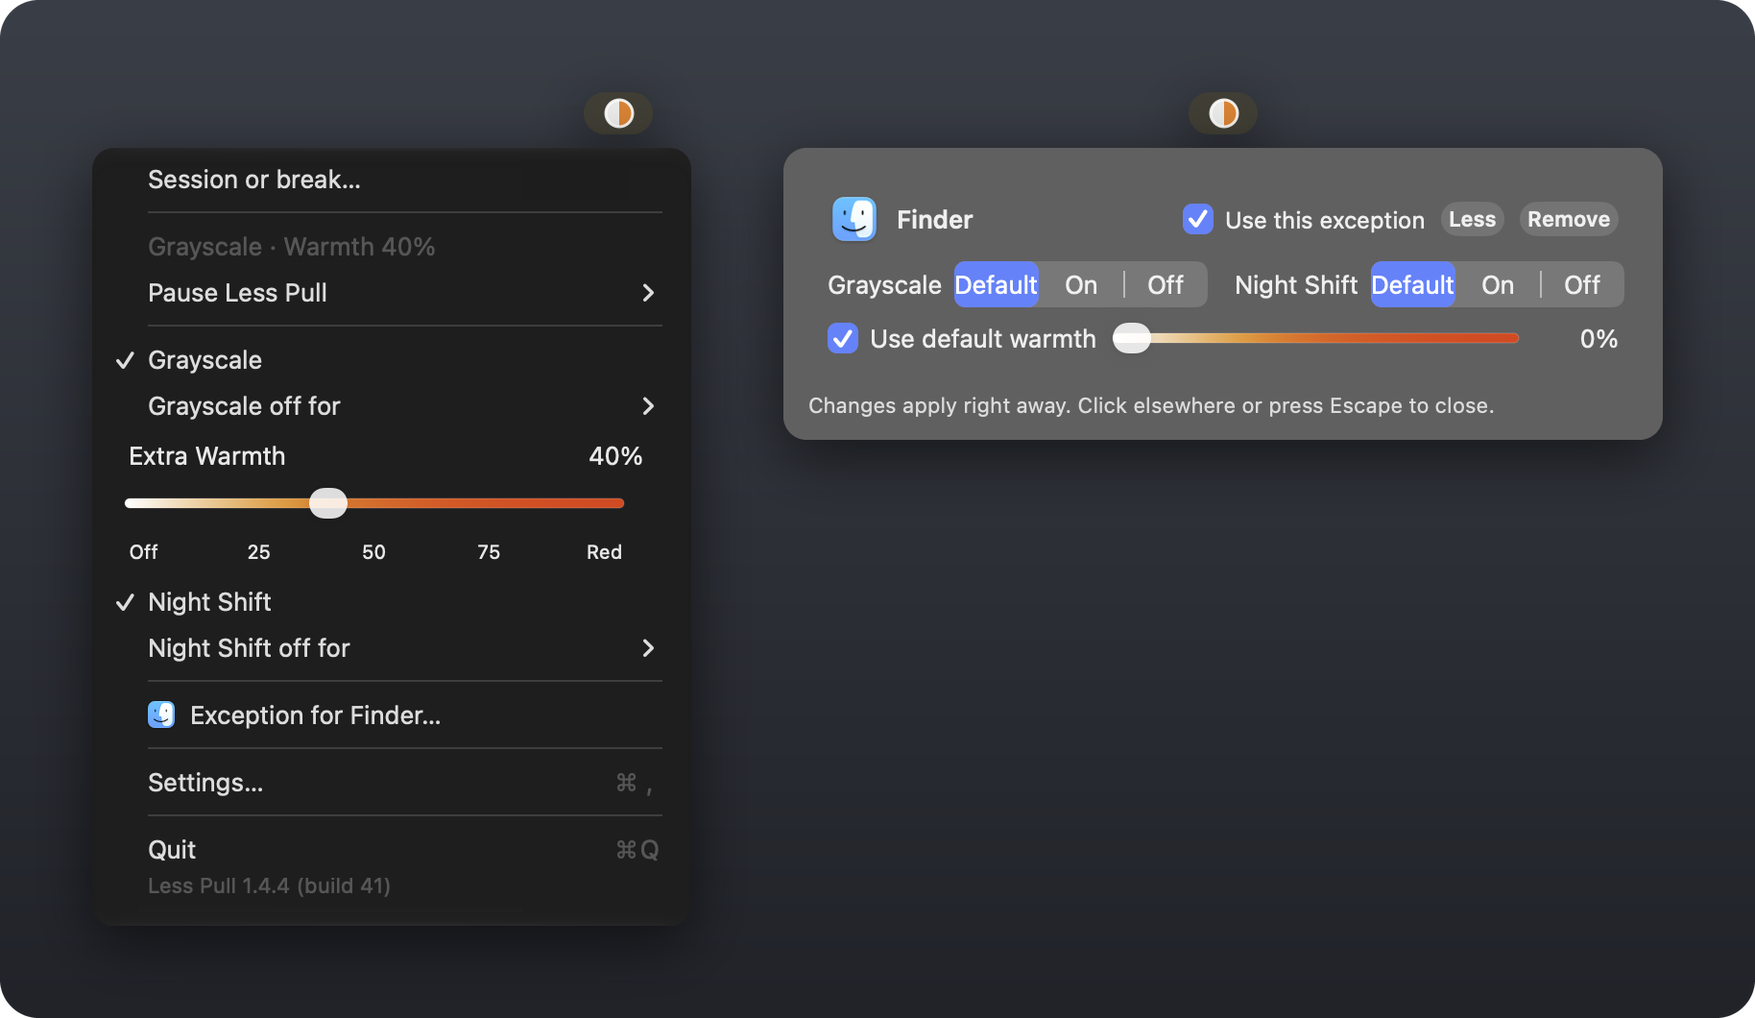
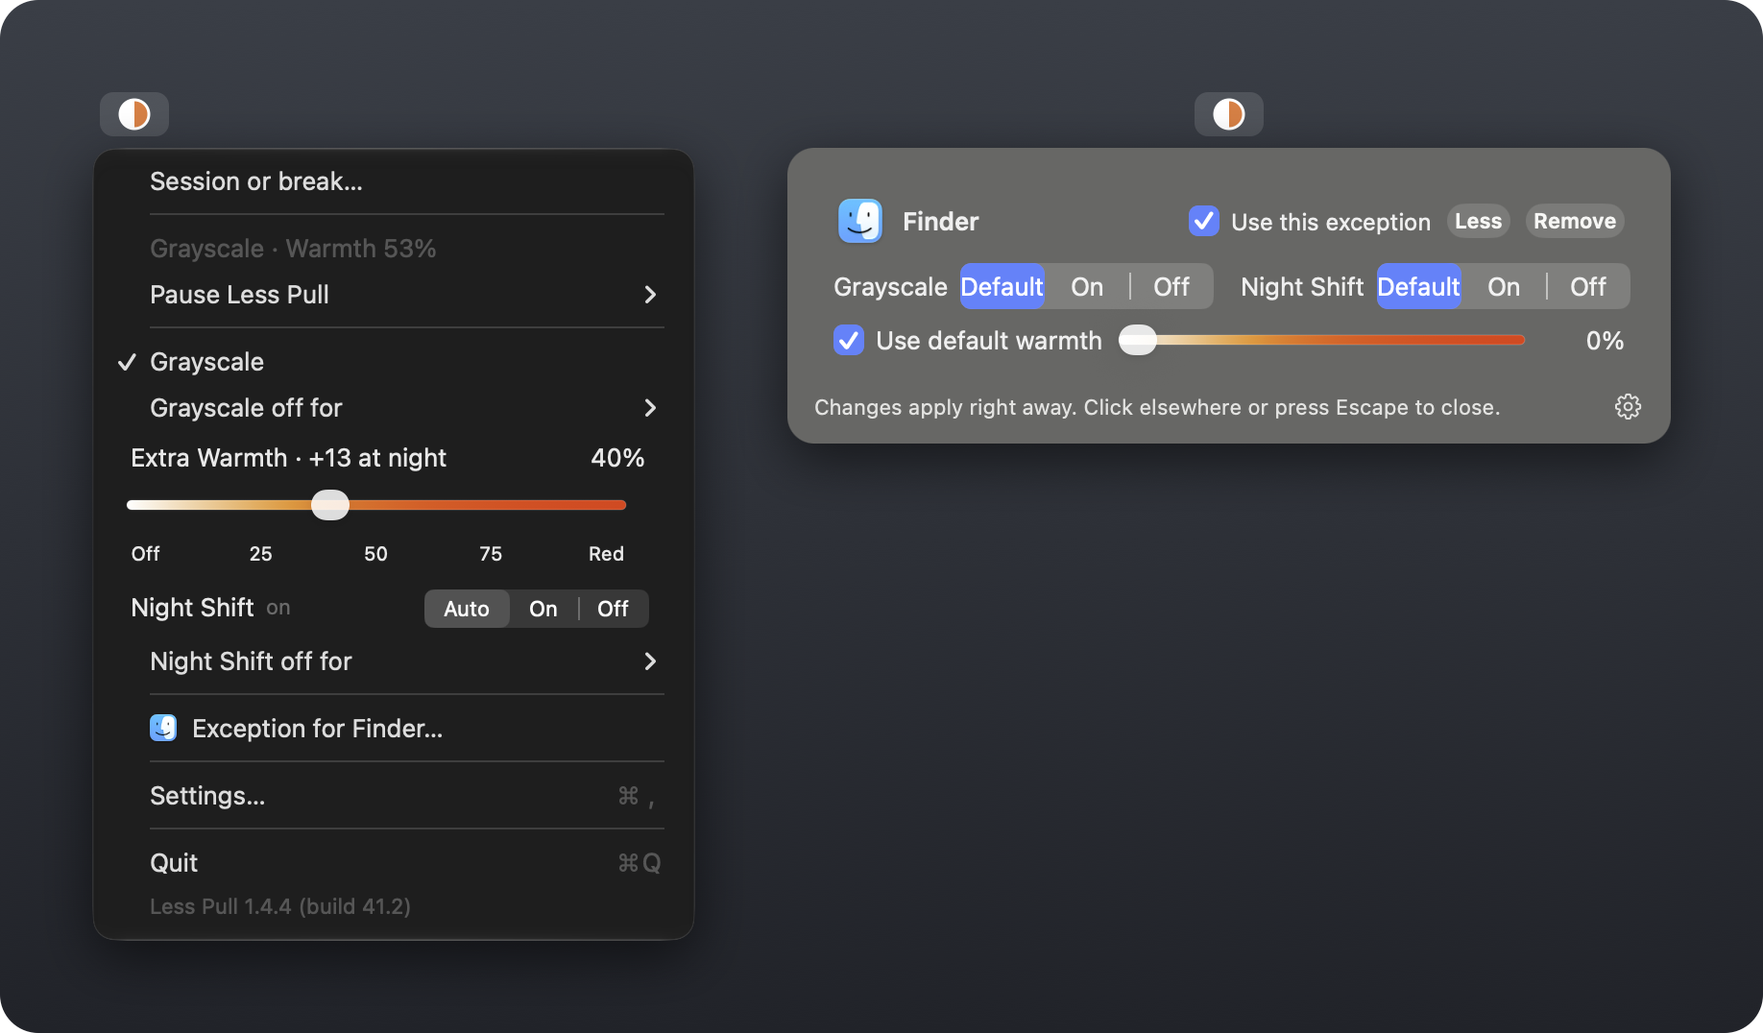
Build 41.2: new screenshots of 41.2, README and docs for the release; screenshot hooks for copies
- The three screenshot figures (the menu and the exception panel, the
  menu beside General, five tabs) are new captures of 41.2 in English
  with example settings: the menu's Night Shift row (Auto | On | Off),
  Extra Warmth with +13 at night, General's Night schedule and Warmer at
  night, About with 41.2. Put together by docs/assets/src/compose-screens.swift
  in the earlier style, colors as captured.
- --screenshot: a copy leaves out "· Test" and shows its shortcuts as the
  installed app has them; "tab:N" opens Settings on a tab.
- README, INSTALL, release plan and history point to 41.2.
- The test action "park" shows a current line (the old Opera line was
  the only text missing a translation).

diff --git a/docs/assets/src/compose-screens.swift b/docs/assets/src/compose-screens.swift
@@ -1,0 +1,36 @@
+import AppKit
+// The README's screenshot figures: real window captures on the plain dark backdrop, soft shadows,
+// and the menu-bar circle drawn above the menu and the panel (as it looks while they are open).
+let dir = CommandLine.arguments[1], out = CommandLine.arguments[2]
+let cs = CGColorSpace(name: CGColorSpace.sRGB)!
+func load(_ n: String) -> CGImage { let i = NSImage(contentsOfFile: "\(dir)/\(n).png")!.cgImage(forProposedRect: nil, context: nil, hints: nil)!; return i.copy(colorSpace: cs) ?? i }  // the captured values as they are (no profile conversion), like the earlier figures
+func compose(_ name: String, _ w: Int, _ h: Int, _ draw: (CGContext) -> Void) {
+  let ctx = CGContext(data: nil, width: w, height: h, bitsPerComponent: 8, bytesPerRow: 0, space: cs, bitmapInfo: CGImageAlphaInfo.premultipliedLast.rawValue)!
+  ctx.saveGState(); ctx.addPath(CGPath(roundedRect: CGRect(x: 0, y: 0, width: w, height: h), cornerWidth: 40, cornerHeight: 40, transform: nil)); ctx.clip()
+  let g = CGGradient(colorsSpace: cs, colors: [CGColor(srgbRed: 58/255, green: 62/255, blue: 70/255, alpha: 1), CGColor(srgbRed: 33/255, green: 35/255, blue: 41/255, alpha: 1)] as CFArray, locations: [0, 1])!
+  ctx.drawLinearGradient(g, start: CGPoint(x: 0, y: h), end: CGPoint(x: 0, y: 0), options: []); draw(ctx); ctx.restoreGState()
+  let rep = NSBitmapImageRep(cgImage: ctx.makeImage()!); try! rep.representation(using: .png, properties: [:])!.write(to: URL(fileURLWithPath: "\(out)/\(name).png")); print(name, w, "x", h)
+}
+func place(_ c: CGContext, _ img: CGImage, x: Int, top: Int, H: Int) {
+  c.saveGState(); c.setShadow(offset: CGSize(width: 0, height: -18), blur: 60, color: CGColor(gray: 0, alpha: 0.55))
+  c.draw(img, in: CGRect(x: x, y: H - top - img.height, width: img.width, height: img.height)); c.restoreGState()
+}
+func circle(_ c: CGContext, cx: Int, top: Int, H: Int) {
+  let w = 72.0, h = 46.0, r = CGRect(x: Double(cx) - w / 2, y: Double(H - top) - h, width: w, height: h)
+  c.setFillColor(CGColor(srgbRed: 1, green: 1, blue: 1, alpha: 0.12)); c.addPath(CGPath(roundedRect: r, cornerWidth: 14, cornerHeight: 14, transform: nil)); c.fillPath()
+  let m = CGPoint(x: r.midX, y: r.midY), R = 15.0
+  c.setFillColor(CGColor(srgbRed: 0.84, green: 0.50, blue: 0.27, alpha: 1)); c.move(to: m); c.addArc(center: m, radius: R, startAngle: -.pi / 2, endAngle: .pi / 2, clockwise: false); c.closePath(); c.fillPath()  // warmth: the right half
+  c.setFillColor(CGColor(gray: 1, alpha: 1)); c.move(to: m); c.addArc(center: m, radius: R, startAngle: .pi / 2, endAngle: 3 * .pi / 2, clockwise: false); c.closePath(); c.fillPath()  // grayscale: the left half
+  c.setStrokeColor(CGColor(gray: 1, alpha: 1)); c.setLineWidth(3); c.addEllipse(in: CGRect(x: m.x - R, y: m.y - R, width: 2 * R, height: 2 * R)); c.strokePath()
+}
+let menu = load("menu"), panel = load("panel"), general = load("general")
+// 1 the menu and the exception panel it opens (the circle where it sits: over the menu's left, centered over the panel)
+do { let W = 96 + menu.width + 96 + panel.width + 96, H = 154 + menu.height + 96, px = 96 + menu.width + 96
+  compose("exceptions", W, H) { c in circle(c, cx: 140, top: 96, H: H); place(c, menu, x: 96, top: 154, H: H); circle(c, cx: px + panel.width / 2, top: 96, H: H); place(c, panel, x: px, top: 154, H: H) } }
+// 2 the menu beside the Settings window on General
+do { let W = 96 + menu.width + 112 + general.width + 96, H = 152 + general.height + 96
+  compose("interfaces", W, H) { c in circle(c, cx: 140, top: 96, H: H); place(c, menu, x: 96, top: 154, H: H); place(c, general, x: 96 + menu.width + 112, top: 152, H: H) } }
+// 3 the other five tabs
+do { let sc = load("shortcuts"), se = load("sessions"), ap = load("apps"), we = load("websites"), ab = load("about")
+  let r1 = max(sc.height, se.height), r2 = max(ap.height, we.height), W = 80 + 1000 + 80 + 1000 + 80, t2 = 80 + r1 + 80, t3 = t2 + r2 + 80, H = t3 + ab.height + 80
+  compose("settings-tabs", W, H) { c in place(c, sc, x: 80, top: 80, H: H); place(c, se, x: 1160, top: 80, H: H); place(c, ap, x: 80, top: t2, H: H); place(c, we, x: 1160, top: t2, H: H); place(c, ab, x: (W - ab.width) / 2, top: t3, H: H) } }

diff --git a/Source/main.m b/Source/main.m
@@ -22,7 +22,8 @@
 extern BOOL LessPullHandsOff,LessPullBorrowScreen;
 // A copy beside the installed app (the demo, a test build: any other bundle id) says so after its build number, so it is
 // never taken for the real Less Pull. The installed app says nothing extra.
-static NSString *LPCopyKind(void){NSString *b=NSBundle.mainBundle.bundleIdentifier?:@"";if([b isEqual:@"com.jiriarion.lesspull"])return nil;return [b hasSuffix:@".demo"]?L(@"Demo"):L(@"Test");}
+static NSString *LPCopyKind(void){NSString *b=NSBundle.mainBundle.bundleIdentifier?:@"";if([b isEqual:@"com.jiriarion.lesspull"]||[NSProcessInfo.processInfo.arguments containsObject:@"--screenshot"])return nil;  // --screenshot: a copy that poses for the README
+ return [b hasSuffix:@".demo"]?L(@"Demo"):L(@"Test");}
 // --test-quiet: an automated test beside real work never takes the keyboard. It does not activate itself, nothing it shows
 // becomes key, and it registers no global keys, so what you type keeps going where you type it. (A test copy that took
 // the keyboard answered every key you typed with the alert sound.)
@@ -1633,7 +1634,7 @@ static OSStatus PeekHotKeyHandler(EventHandlerCallRef next,EventRef event,void *
 - (void)refreshRecorder:(ShortcutRecorder *)recorder key:(NSString *)key registered:(BOOL)registered note:(NSTextField *)note idle:(NSString *)idle active:(NSString *)active name:(NSString *)name {
  NSDictionary *s=[self shortcutForKey:key];NSDictionary *suggested=[self suggestedShortcutFor:key];NSString *hint=suggested?[NSString stringWithFormat:L(@" Suggest picks %@, which no macOS shortcut uses."),[PeekShortcut labelForKeyCode:[suggested[@"keyCode"] integerValue] modifiers:[suggested[@"modifiers"] integerValue]]]:@"";
  if(recorder.recording){recorder.title=L(@"Press keys…");note.stringValue=L(@"Press the keys you want, with ⌘, ⌃ or ⌥. Esc cancels; ⌫ removes the shortcut.");}
- else {recorder.title=s?[PeekShortcut labelForKeyCode:[s[@"keyCode"] integerValue] modifiers:[s[@"modifiers"] integerValue]]:L(@"Record Shortcut");note.stringValue=s?(registered?active:L(@"This shortcut could not be set; another app may be using it. Click to choose another.")):[idle stringByAppendingString:hint];}
+ else {recorder.title=s?[PeekShortcut labelForKeyCode:[s[@"keyCode"] integerValue] modifiers:[s[@"modifiers"] integerValue]]:L(@"Record Shortcut");note.stringValue=s?((registered||[NSProcessInfo.processInfo.arguments containsObject:@"--screenshot"])?active:L(@"This shortcut could not be set; another app may be using it. Click to choose another.")):[idle stringByAppendingString:hint];}  // --screenshot: a copy shows the shortcut as the installed app has it (that app holds the keys)
  recorder.accessibilityLabel=[NSString stringWithFormat:L(@"%@ shortcut: %@"),name,s?recorder.title:@"none"];
 }
 - (void)refreshPeekRecorder:(id)sender {
@@ -2832,7 +2833,7 @@ if(self.welcomeWanted&&self.welcomeCard){BOOL first=!self.welcomePlaced;self.wel
  else if([what isEqual:@"logStart"])NSLog(@"Less Pull tour test: start button [%@], sheet %@, tour %@",self.tourStartButton.title,self.settings.attachedSheet?@"up":@"none",self.guide?@"running":@"none");
  else if([what isEqual:@"logIcon"]){NSWindow *w=self.item.button.window;NSScreen *sc=w.screen;NSLog(@"Less Pull tour test: icon window %@ visible %d occlusion %lu screen %@ visibleFrame %@ guideIconFrame %@ far %d front %@",NSStringFromRect(w.frame),w.isVisible,(unsigned long)w.occlusionState,NSStringFromRect(sc.frame),NSStringFromRect(sc.visibleFrame),NSStringFromRect([self guideIconFrame]),[self iconFarFromClock],NSWorkspace.sharedWorkspace.frontmostApplication.localizedName);}
  else if([what isEqual:@"logRing"])NSLog(@"Less Pull tour test: ring %.2f label %@",[self sessionRing:NSDate.date],self.session.state==SessionIdle?@"-":[NSString stringWithFormat:@"0:%02ld",(long)ceil(MAX(0,[self.session remainingAt:NSDate.date]))]);
- else if([what isEqual:@"poke"])[self.guide debugPoke];else if([what isEqual:@"resumeLP"])[self resumeLessPull:nil];else if([what isEqual:@"fakeMenu"])self.fakeMenuOpen=!self.fakeMenuOpen;else if([what isEqual:@"logBrowsers"])NSLog(@"Less Pull tour test: browsers %@ helpers %@",[[self tourBrowsers] valueForKey:@"description"],[self browsersWithHelper]);
+ else if([what isEqual:@"poke"])[self.guide debugPoke];else if([what isEqual:@"resumeLP"])[self resumeLessPull:nil];else if([what isEqual:@"fakeMenu"])self.fakeMenuOpen=!self.fakeMenuOpen;else if([what hasPrefix:@"tab:"]){[self showSettings:nil];self.settingsTabs.selectedTabViewItemIndex=[[what substringFromIndex:4] integerValue];}else if([what isEqual:@"logBrowsers"])NSLog(@"Less Pull tour test: browsers %@ helpers %@",[[self tourBrowsers] valueForKey:@"description"],[self browsersWithHelper]);
  else if([what isEqual:@"helperOpera"])[self startGuideHelper:@"browser" with:@{@"id":@"com.operasoftware.Opera",@"name":@"Opera"}];else if([what isEqual:@"helperFirefox"])[self startGuideHelper:@"browser" with:@{@"id":@"org.mozilla.firefox",@"name":@"Firefox"}];
  else if([what isEqual:@"helperBrowser"])[self startGuideHelper:@"browser" with:@{@"id":@"com.google.Chrome",@"name":@"Chrome"}];else if([what isEqual:@"helperSunset"])[self startGuideHelper:@"sunset" with:nil];else if([what isEqual:@"chip"]){[self startSessionMinutes:25];[self closeSessionPanel];}
  else if([what isEqual:@"log"])NSLog(@"Less Pull tour test: %@ | menu %@ | icon %@ | settings %@ (visible %d) | bar-side session %@",self.guide?[self.guide debugState]:@"(no tour)",NSStringFromRect([self guideFrame:@"menu"]),NSStringFromRect([self guideIconFrame]),NSStringFromRect(self.settings.frame),self.settings.visible,NSStringFromRect([self guideFrame:@"session"]));

diff --git a/Source/GuideTour.m b/Source/GuideTour.m
@@ -604,7 +604,7 @@ static NSString *GTJoin(NSArray<NSString *> *names){NSListFormatter *f=[NSListFo
 - (void)debugAnswer:(NSInteger)button {[self answer:button];}
 - (void)debugPoke {[self poked];}
 - (void)debugTick:(NSInteger)box {if(box>=0&&box<(NSInteger)self.askBoxes.count)self.askBoxes[box].state=NSControlStateValueOn;}
-- (void)debugPark {NSValue *p=[self nearBar]();if(!p)return;double t=[self moveTo:p.pointValue];[self after:t*.85 do:^{[self show:L(@"Opera opens the store page. Click Add to Opera, then confirm. I’ll notice.") scene:-1];}];}
+- (void)debugPark {NSValue *p=[self nearBar]();if(!p)return;double t=[self moveTo:p.pointValue];[self after:t*.85 do:^{[self show:[NSString stringWithFormat:L(@"%@ opens the page for the extension. Add it there; I’ll notice."),@"Opera"] scene:-1];}];}
 - (void)toggleSlow {[self choosePace:self.paceLevel==0?1:0];}  // testing ("slower"): slow, or back to normal
 - (void)choosePace:(NSInteger)level {
  level=MAX(0,MIN(2,level));if(level==self.paceLevel){[self updateBar];return;}self.paceLevel=level;self.view.pace=self.pace;[self updateBar];if(level==0)self.slowCount++;

diff --git a/README.md b/README.md
@@ -6,7 +6,7 @@
 </p>
 
 <p align="center">
-  <a href="https://github.com/Archangeloi89/less-pull/releases/tag/v1.4.4-41.1"><b>Download build 41.1</b></a>
+  <a href="https://github.com/Archangeloi89/less-pull/releases/tag/v1.4.4-41.2"><b>Download build 41.2</b></a>
   &nbsp;·&nbsp; <a href="https://lesspull.com"><b>lesspull.com</b></a>
   &nbsp;·&nbsp; <a href="#install">Install</a>
   &nbsp;·&nbsp; <a href="docs/EXCEPTIONS.md">App and website exceptions</a>
@@ -216,10 +216,10 @@ The icon tells you the state: its left half fills while grayscale is showing, it
 - **Exception for [current app]…** opens a small panel under the icon with the same row as in Settings, and every change applies right away. With a website in front, **Exception for [that site]…** does the same for the domain or the exact page.
 
 <p align="center">
-  <img src="docs/assets/exceptions.png" width="100%" alt="The Less Pull menu under its icon, with Session or break, the status line Grayscale, Warmth 40%, Pause Less Pull, Grayscale, Grayscale off for, the Extra Warmth slider at 40 percent, Night Shift, Night Shift off for, Exception for Finder, Settings and Quit. Beside it, the exception panel for Finder under the icon: Use this exception, Grayscale and Night Shift each as Default, On or Off, and Use default warmth with its slider.">
+  <img src="docs/assets/exceptions.png" width="100%" alt="The Less Pull menu under its icon, at night: Session or break, the status line Grayscale, Warmth 53%, Pause Less Pull, Grayscale, Grayscale off for, the Extra Warmth slider at 40 percent with +13 at night, Night Shift on with Auto, On and Off, Night Shift off for, Exception for Finder, Settings and Quit. Beside it, the exception panel for Finder under the icon: Use this exception, Grayscale and Night Shift each as Default, On or Off, Use default warmth with its slider, and a gear.">
 </p>
 
-<sub>The menu and the exception panel it opens. Real screenshots of build 41 with an example rule.</sub>
+<sub>The menu and the exception panel it opens, at night. Real screenshots of build 41.2 with example settings.</sub>
 
 <details>
 <summary><b>See the menu beside the Settings window, and every Settings tab</b></summary>
@@ -227,7 +227,7 @@ The icon tells you the state: its left half fills while grayscale is showing, it
 <br>
 
 <p align="center">
-  <img src="docs/assets/interfaces.png" width="100%" alt="The Less Pull menu under its icon beside the Settings window on its General tab: the heading Grayscale, Warmth 40%, Grayscale with Turn Grayscale off for, the Extra Warmth slider with Reset, Night Shift with Turn Night Shift off for, Launch at login, Language, and Show advanced options, each with a short explanation underneath.">
+  <img src="docs/assets/interfaces.png" width="100%" alt="The Less Pull menu under its icon beside the Settings window on its General tab: the heading Grayscale, Warmth 53%, Warmer at night +13 now, Night Shift on; Grayscale with Turn Grayscale off for; the Extra Warmth slider at 40 percent with Reset; Night Shift as Automatic, On or Off, with Turn Night Shift off for; the Night schedule, Custom hours from 22:00 to 07:00, with Displays Settings; Warmer at night, +13 points, with Try it; Launch at login, Language, and Show advanced options, each with a short explanation underneath.">
 </p>
 
 The Settings window has six tabs:
@@ -245,7 +245,7 @@ Display options appear only with two or more displays connected, and the fine-tu
   <img src="docs/assets/settings-tabs.png" width="100%" alt="Five tabs of the Settings window: Shortcuts with Peek in color and the Toggle Grayscale shortcut; Sessions with lengths, call-back times and what happens at the end; Apps with example exceptions for Music, Photos and TextEdit; Websites with example exceptions for example.com and one exact page; About with the version, the author's links, Help, Support and Updates.">
 </p>
 
-<sub>Real screenshots of build 41 with example rules.</sub>
+<sub>Real screenshots of build 41.2 with example rules.</sub>
 
 </details>
 
@@ -257,7 +257,7 @@ The app changes the display; nothing is injected into pages, and the Mac app has
 
 ## Install
 
-1. Download **Less-Pull-1.4.4-41.1.dmg** from the [build 41.1 release](https://github.com/Archangeloi89/less-pull/releases/tag/v1.4.4-41.1), open it and drag **Less Pull** onto **Applications**.
+1. Download **Less-Pull-1.4.4-41.2.dmg** from the [build 41.2 release](https://github.com/Archangeloi89/less-pull/releases/tag/v1.4.4-41.2), open it and drag **Less Pull** onto **Applications**.
 2. Open it. The welcome opens right under the circle in your menu bar, where you choose Grayscale and Extra Warmth from then on, and offers [the tour](#a-tour-on-your-own-screen). If the menu bar is full and the circle is hidden, a small animated drawing shows what to do: hold ⌘ and drag the circle toward the clock. (macOS decides where new icons start, and apps cannot choose a spot.)
 3. For website rules, open **Settings… → Websites**, choose **Install Browser Extension…**, pick a browser from the list, and follow the steps for [your browser](docs/INSTALL.md#safari-brave-chrome-firefox-opera-or-edge).
 
@@ -265,7 +265,7 @@ The app changes the display; nothing is injected into pages, and the Mac app has
 > Setting up with an AI agent? The release includes an **agent pack** (`Less-Pull-Agent-Pack.zip`): a script that installs the app and the bridge, and scripts that connect Brave, Chrome, Opera, Edge and Firefox, with the instructions an agent needs. See [tools/agent-pack](tools/agent-pack/README.md).
 
 > [!NOTE]
-> Version 1.4.4 (build 41.1) is a test build for Apple silicon Macs. The version number stays 1.4.4 on purpose; the build number is what changes. It is signed with a Developer ID and notarized by Apple, so it opens like any other app. It is built for macOS 13 and later and has been tested on macOS 27 only. The browser extension comes from the Chrome Web Store (Chrome, Brave, Edge, Opera) and from addons.mozilla.org (Firefox); Safari’s comes with the app. See [install help](docs/INSTALL.md) and [what is still open](docs/RELEASE-PLAN.md).
+> Version 1.4.4 (build 41.2) is a test build for Apple silicon Macs. The version number stays 1.4.4 on purpose; the build number is what changes. It is signed with a Developer ID and notarized by Apple, so it opens like any other app. It is built for macOS 13 and later and has been tested on macOS 27 only. The browser extension comes from the Chrome Web Store (Chrome, Brave, Edge, Opera) and from addons.mozilla.org (Firefox); Safari’s comes with the app. See [install help](docs/INSTALL.md) and [what is still open](docs/RELEASE-PLAN.md).
 
 ## Private by design
 

diff --git a/docs/assets/README.md b/docs/assets/README.md
@@ -2,9 +2,9 @@
 
 | File | What it is |
 | :-- | :-- |
-| `interfaces.png` | Two real screenshots of Less Pull 1.4.4 build 41, the menu under its icon and the Settings window on General, placed side by side on a drawn backdrop |
-| `exceptions.png` | Real screenshots of build 41: the menu, and the exception panel that Exception for Finder… opens under the icon, on a drawn backdrop |
-| `settings-tabs.png` | Five window captures of build 41 (Shortcuts, Sessions, Apps, Websites, About) with example rules, on a drawn backdrop |
+| `interfaces.png` | Two real screenshots of Less Pull 1.4.4 build 41.2, the menu under its icon and the Settings window on General, placed side by side on a drawn backdrop |
+| `exceptions.png` | Real screenshots of build 41.2: the menu, and the exception panel that Exception for Finder… opens under the icon, on a drawn backdrop |
+| `settings-tabs.png` | Five window captures of build 41.2 (Shortcuts, Sessions, Apps, Websites, About) with example rules, on a drawn backdrop |
 | `before-after.webp` | The same drawn web page as it is and as Less Pull shows it, the seam gliding left and right in a loop, for the project page (`src/social-preview.py --parts`, then `src/before-after-sweep.py`) |
 | `before-after.png` | The still version with captions (`src/social-preview.py --plain`), kept for places that cannot play an animation |
 | `peek.png` | Three frames of the same drawn page: quiet, in color while the Peek shortcut is held, quiet again (`src/social-preview.py --peek`) |
@@ -37,7 +37,10 @@ The sources are in [`src`](src). They need Node.js, and Playwright with Chromium
 cd docs/assets/src
 npm install
 node build.mjs        # writes the SVG files
-python3 menu-figures.py raw ../interfaces.png interfaces   # menu + General tab (needs Pillow and NumPy)
+# Since build 41.2 the three screenshot figures come from window captures of a test copy started with --screenshot
+# (English, example settings and rules; see Source/TESTING.txt) and are put together by compose-screens.swift:
+swiftc -O compose-screens.swift -o /tmp/compose-screens && /tmp/compose-screens <captures folder> ..   # menu, panel, general, shortcuts, sessions, apps, websites, about (.png)
+python3 menu-figures.py raw ../interfaces.png interfaces   # the earlier way: menu + General tab (needs Pillow and NumPy)
 python3 menu-figures.py raw ../exceptions.png exceptions   # the two exception submenus
 python3 settings-figure.py raw ../settings-tabs.png shortcuts.jpg apps.jpg websites.jpg about.jpg
 python3 social-preview.py ../social-preview.png          # the link-preview card

diff --git a/docs/INSTALL.md b/docs/INSTALL.md
@@ -1,10 +1,10 @@
 # Install
 
-Version 1.4.4 (build 41.1) is a test build. Read [what to expect](#what-to-expect-from-this-build) before you install. The version number stays 1.4.4 on purpose; the build number is what changes.
+Version 1.4.4 (build 41.2) is a test build. Read [what to expect](#what-to-expect-from-this-build) before you install. The version number stays 1.4.4 on purpose; the build number is what changes.
 
 ## The Mac app
 
-1. Download **Less-Pull-1.4.4-41.1.dmg** from the [build 41.1 release](https://github.com/Archangeloi89/less-pull/releases/tag/v1.4.4-41.1).
+1. Download **Less-Pull-1.4.4-41.2.dmg** from the [build 41.2 release](https://github.com/Archangeloi89/less-pull/releases/tag/v1.4.4-41.2).
 2. Open it and drag **Less Pull** onto the **Applications** shortcut next to it. (A zip of the same app is on the release page too; the in-app updater uses it.)
 3. Open it. A half-filled circle appears in the menu bar, and on the first launch a short welcome opens under it and offers a tour on your own screen: a guide shows you around while you try each step.
 4. Click the circle and choose Grayscale and Extra Warmth. At night, **Warmer at night** adds a few points more; you set your night under **Settings… → General → Night schedule**. The icon fills on the left while grayscale is showing and warms on the right as you add warmth.

diff --git a/docs/RELEASE-PLAN.md b/docs/RELEASE-PLAN.md
@@ -1,6 +1,6 @@
 # Release plan
 
-Less Pull 1.4.4 build 41.1 is the current release (13 October 2026). The version number stays 1.4.4 for good; releases are tagged `v1.4.4-<build>`, and the [release history](1.4.4-19-release.txt) describes every build since 19. The repository has been public since 8 October 2026.
+Less Pull 1.4.4 build 41.2 is the current release (14 October 2026). The version number stays 1.4.4 for good; releases are tagged `v1.4.4-<build>`, and the [release history](1.4.4-19-release.txt) describes every build since 19. The repository has been public since 8 October 2026.
 
 ## Done
 
